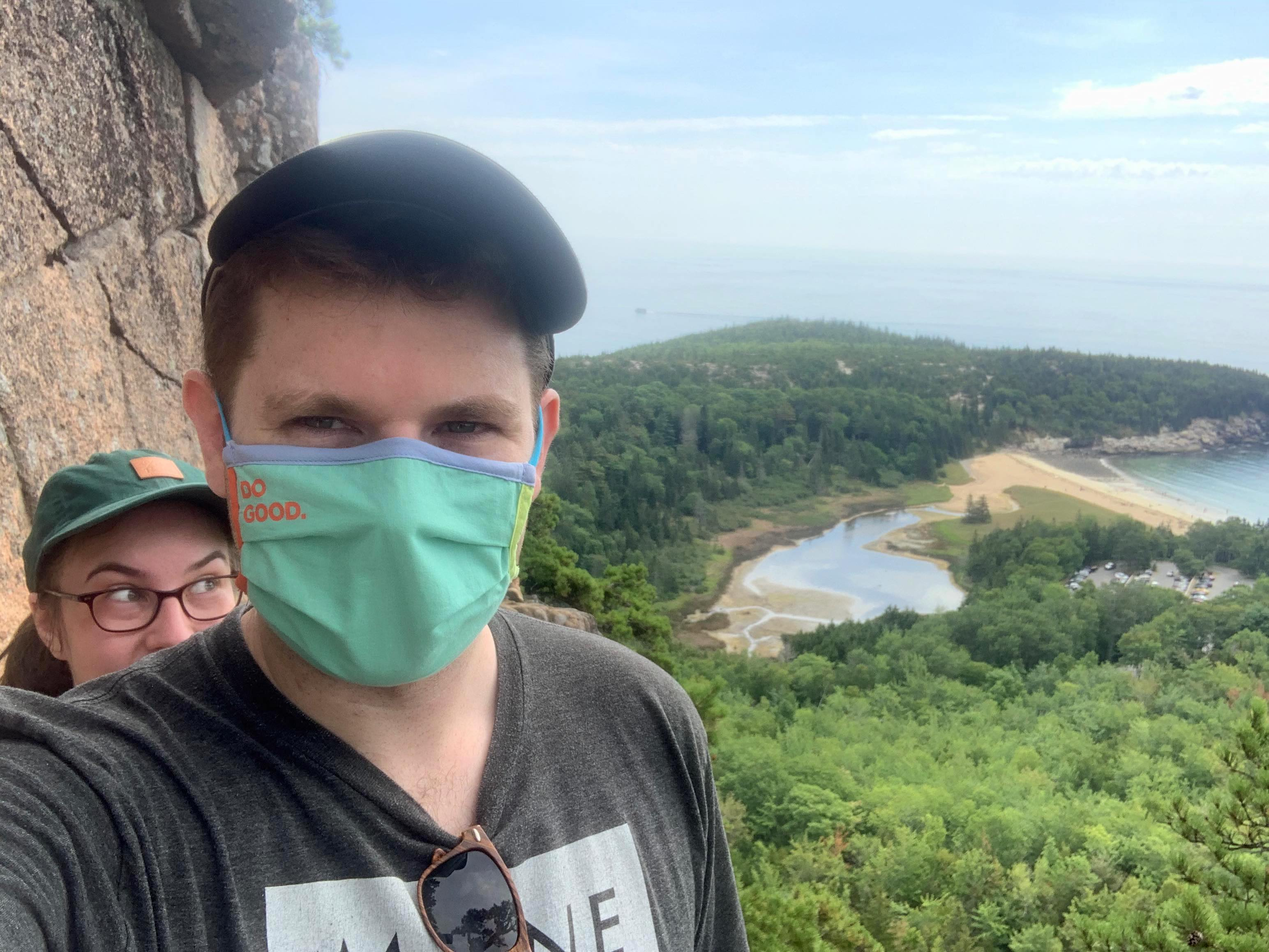
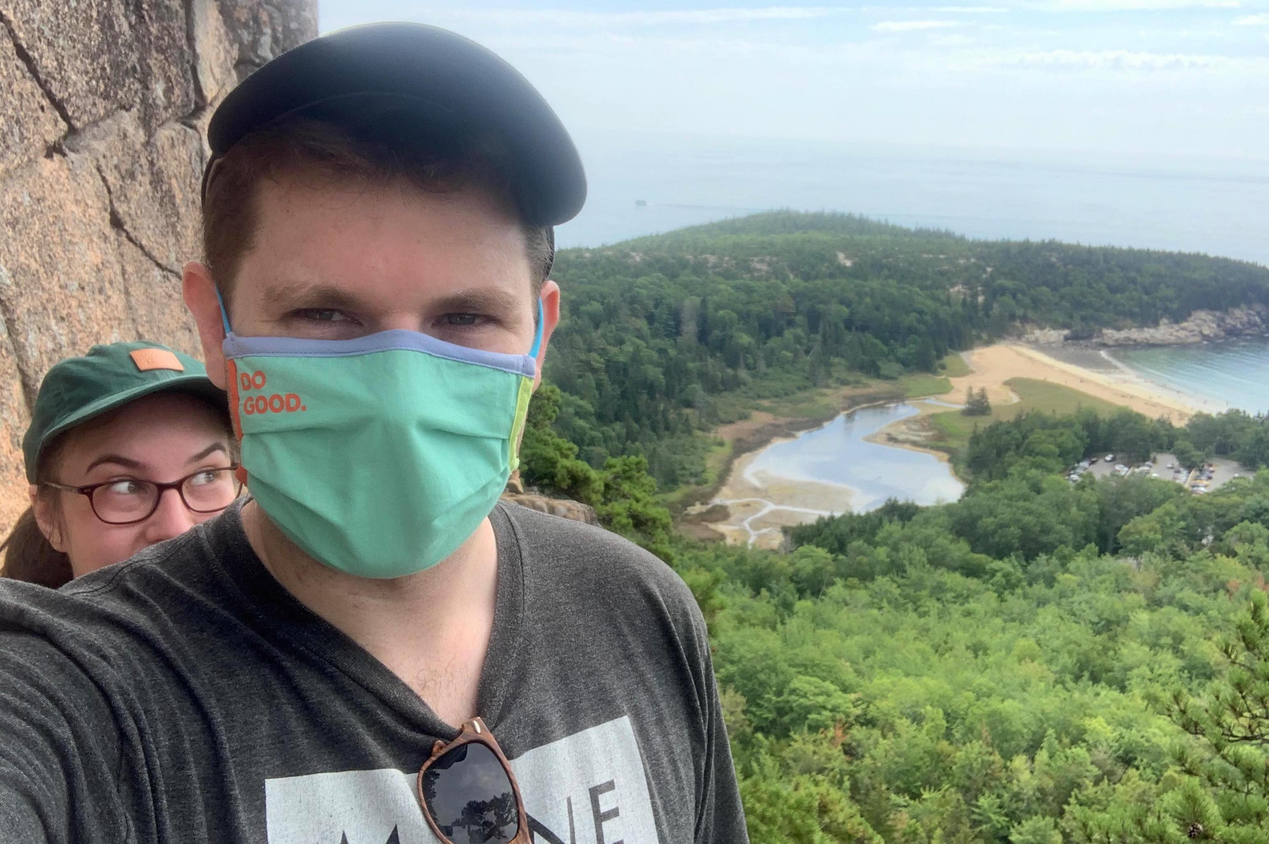
Restructure about page, crop dead space out of about image, and fix now link

diff --git a/about.md b/about.md
@@ -6,13 +6,7 @@ permalink: /about
 
 My name is TJ Maynes and I'm a passionate, generalist Software Engineer at [VMware Tanzu Labs](https://tanzu.vmware.com/labs). If you came looking for a place to learn about building mobile apps, automating the hard things, and agile software development then this is the place for you!
 
-If you have any questions, feel free to reach out to [me]("mailto:{{ site.email }}")!
-
-You can find out more about me in my [now page](/now) and [here](/links).
-
-<hr />
-
-Over my career I've been fortunate to work with amazing people at some amazing places.
+Over my career I've been fortunate to work with amazing people at some pretty incredible places.
 
 ## [VMware Tanzu Labs](https://tanzu.vmware.com/labs)
 
@@ -40,3 +34,7 @@ Having my first full-time job at Rejuvenan was a gift and I'll never forget the 
 ## [Spatial Networks](https://www.fulcrumapp.com/)
 
 While studying for my Computer Science degree, I accepted a Web Developer Internship at Spatial Networks, a company developing an iOS and Android app for geospatial data collection called [Fulcrum](https://www.fulcrumapp.com/company). At Spatial Networks, I learned how to contribute to a Ruby on Rails codebase with a small, yet mighty, team of developers.
+
+If you have any questions, feel free to reach out to [me]("mailto:{{ site.email }}")!
+
+You can find out more about me in my [now page](/now) and [here](/links).
